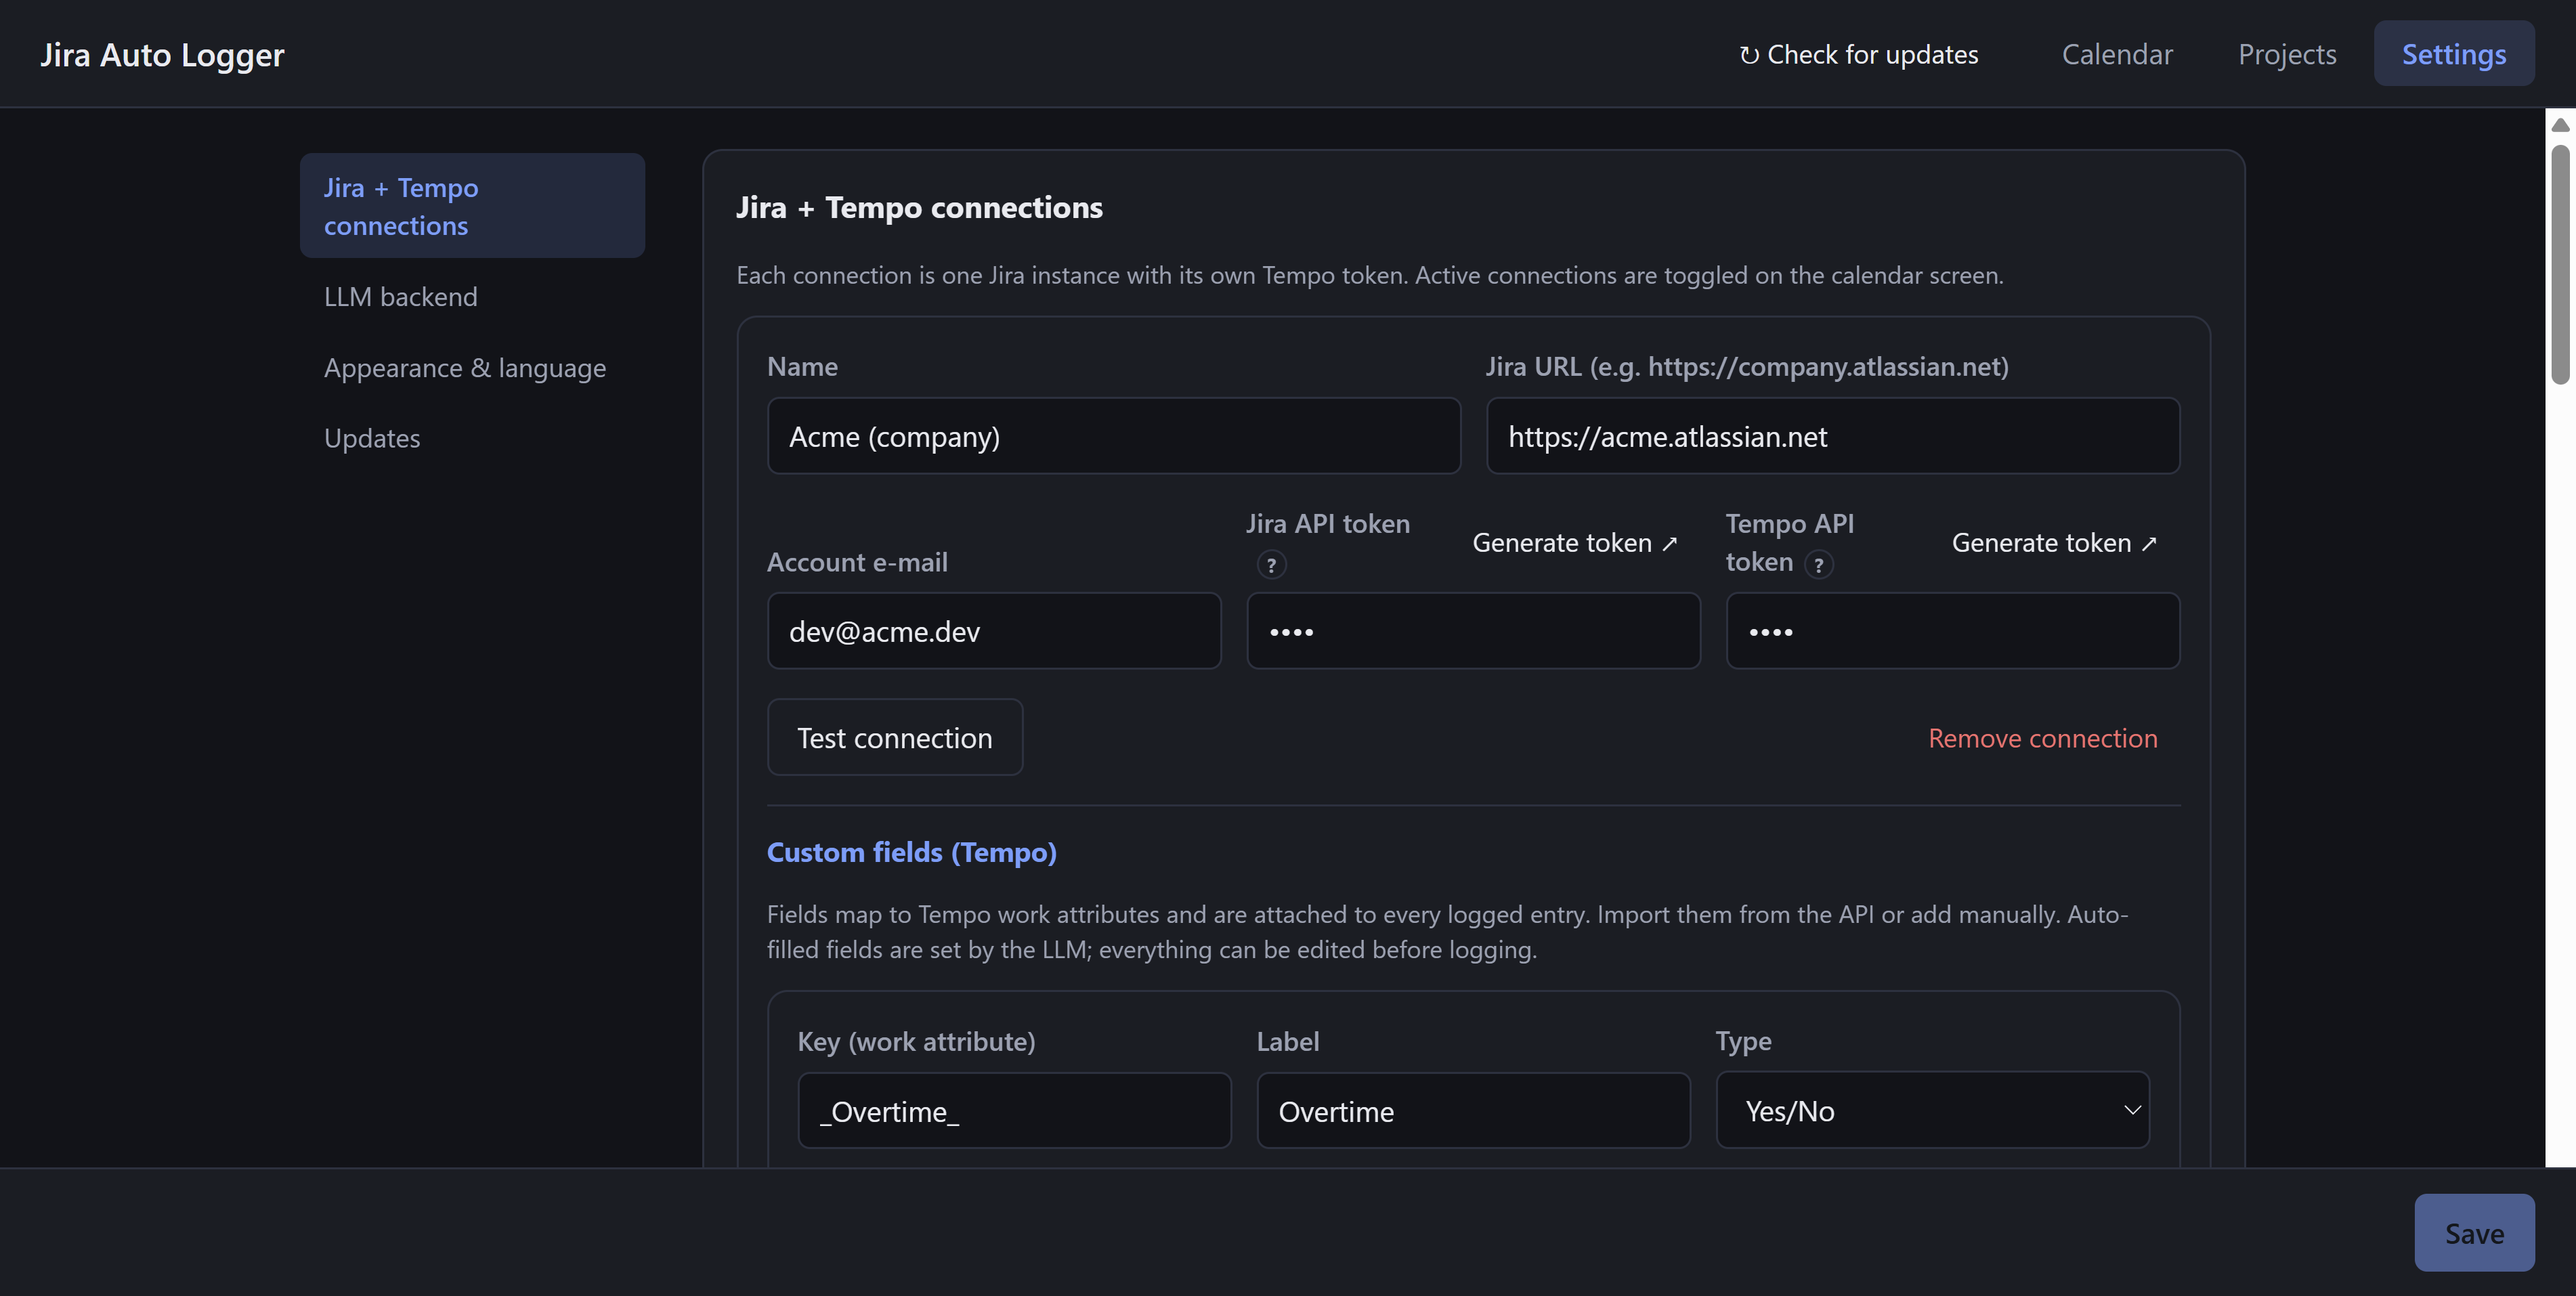
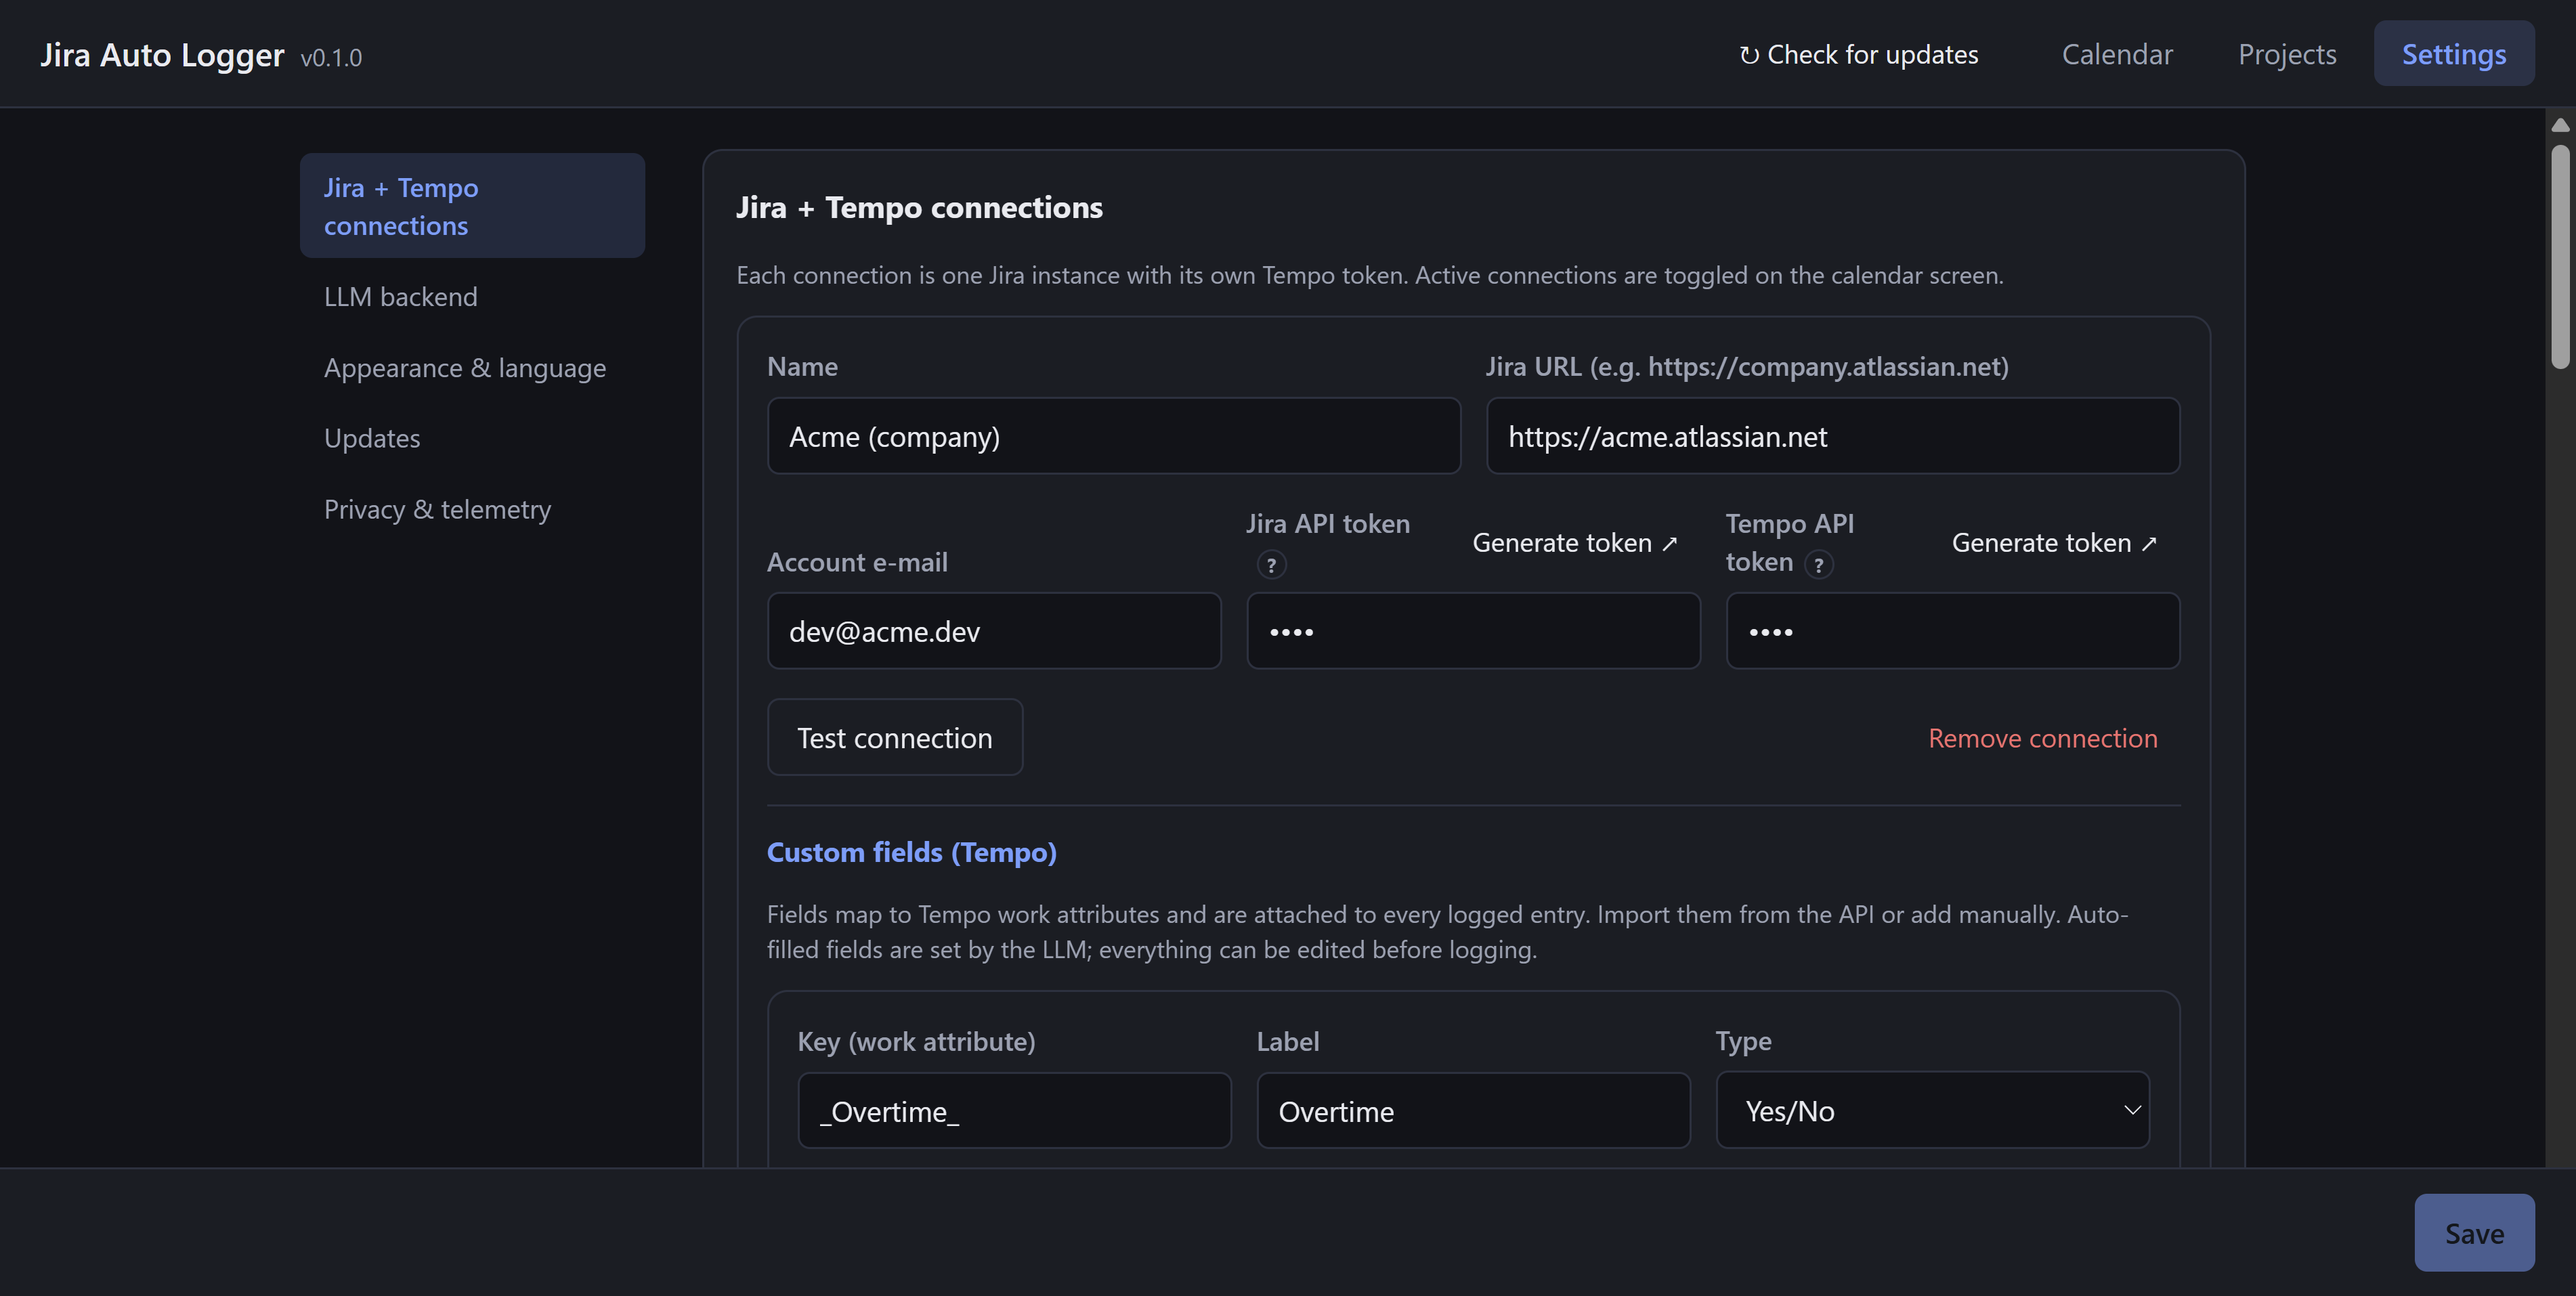
Show the running version next to the app name
Telling which build you are on meant opening Settings. The header now reads
"Jira Auto Logger v0.1.23", muted and one size down, with the tooltip naming it
as the installed version.

The number comes from the updater snapshot (`app.getVersion()`), which is
already fetched during bootstrap - so it is present in dev and mock mode too,
where update *checks* are disabled.

The version sits next to the <h1> rather than inside it: themes paint the
heading itself (y2k clips a gradient to the text, ps1 appends a glyph row), and
a nested span would inherit that. A new .app-title wrapper takes over the h1's
`flex: 1` so the tabs stay pinned right.

Screenshots regenerated for the new header, except wizard-suggestions.png: the
fake LLM in mock mode currently returns no usable suggestions, so that capture
came out as an error banner and the old one is kept.

Changed region(s): [[0.9616, 0.0617, 1.0, 0.9248], [0.1241, 0.3699, 0.2171, 0.4007]]

diff --git a/src/renderer/src/App.tsx b/src/renderer/src/App.tsx
@@ -13,6 +13,10 @@ export default function App(): JSX.Element {
   const setView = useAppStore((s) => s.setView)
   const updateStatus = useAppStore((s) => s.update?.status)
   const updateAvailable = !!updateStatus && UPDATE_NOTIFYING_STATUSES.has(updateStatus)
+  // The updater snapshot carries the running version (app.getVersion()) and is
+  // fetched during bootstrap, so this is filled in dev and mock mode too - even
+  // though update *checks* are disabled there.
+  const currentVersion = useAppStore((s) => s.update?.currentVersion)
 
   const tabs: Array<{ id: AppView; label: string; badge?: boolean }> = [
     { id: 'calendar', label: t('app.calendar') },
@@ -23,7 +27,17 @@ export default function App(): JSX.Element {
   return (
     <div className="app-shell">
       <header className="app-header">
-        <h1>{t('app.title')}</h1>
+        {/* The version sits next to the title but outside the <h1>: themes
+            paint the heading itself (y2k clips a gradient to the text, ps1 adds
+            an ::after glyph row), and a nested span would inherit that. */}
+        <div className="app-title">
+          <h1>{t('app.title')}</h1>
+          {currentVersion && (
+            <span className="app-version" title={t('app.versionTitle')}>
+              v{currentVersion}
+            </span>
+          )}
+        </div>
         <UpdateCheckButton />
         <nav className="nav-tabs">
           {tabs.map((tab) => (

diff --git a/src/renderer/src/styles/global.css b/src/renderer/src/styles/global.css
@@ -161,11 +161,27 @@ textarea {
   background: var(--color-bg-raised);
 }
 
+/* Takes over the h1's former `flex: 1` so the title block still pushes the
+   update button and the tabs to the right edge. */
+.app-title {
+  display: flex;
+  align-items: baseline;
+  gap: 8px;
+  flex: 1;
+  min-width: 0;
+}
+
 .app-header h1 {
   font-size: 16px;
   font-weight: 600;
   margin: 0;
-  flex: 1;
+}
+
+.app-version {
+  font-size: 12px;
+  color: var(--color-text-muted);
+  font-variant-numeric: tabular-nums;
+  white-space: nowrap;
 }
 
 .app-main {

diff --git a/CHANGELOG.md b/CHANGELOG.md
@@ -10,6 +10,11 @@ workflow picks the section whose version matches the one being published; a
 push with no matching section falls back to GitHub's auto-generated notes.
 Write for users, not for the commit log — see the `release` skill.
 
+## 0.1.23 — 2026-07-30
+
+- The installed version is now shown next to the app name in the header, so you
+  can tell at a glance which build you are running without opening Settings.
+
 ## 0.1.21 — 2026-07-27
 
 - Added a **PS1 ✕ BIOS** theme — the original PlayStation boot screen as a work
